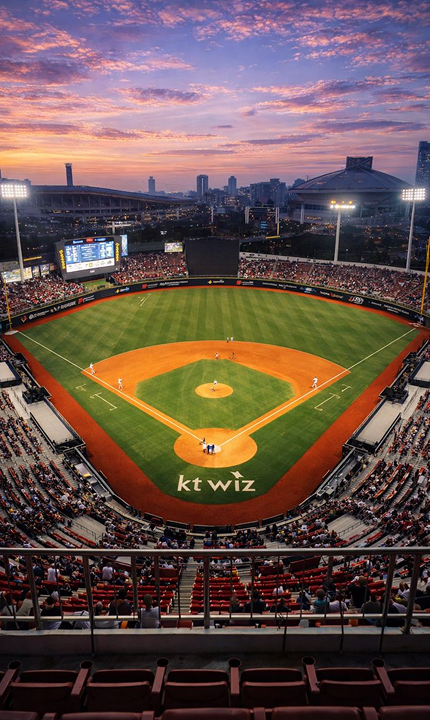
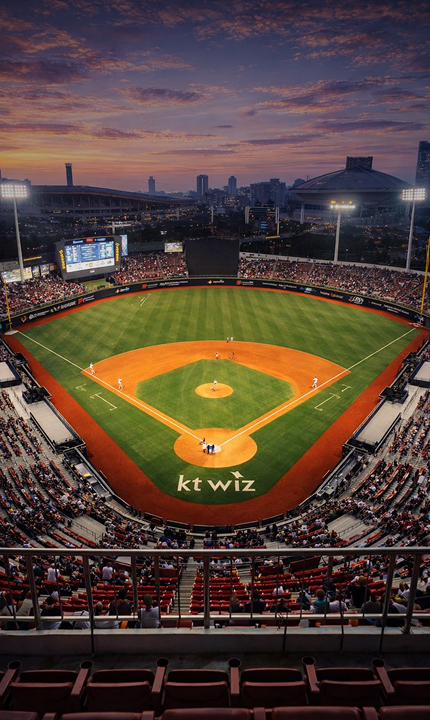
오픈그래프 이미지 수정 및 스타디움 이미지 수정

Changed region(s): [[0.0, 0.0, 1.0, 0.3056], [0.1512, 0.3056, 0.3023, 0.3667], [0.393, 0.3361, 0.4233, 0.3667]]

diff --git a/index.html b/index.html
@@ -11,7 +11,7 @@
   <meta property="og:type" content="website" />
   <meta property="og:title" content="Dugout THE 10TH PLAYER" />
   <meta property="og:description" content="10번째 선수들을 위한 공간 KBO 팬덤 커뮤니티 앱" />
-  <meta property="og:image" content="https://dugout-ruby.vercel.app/img/dugout-opengraph.svg" />
+  <meta property="og:image" content="https://dugout-ruby.vercel.app/img/dugout-opengraph.jpg" />
   <meta property="og:url" content="https://dugout-ruby.vercel.app" />
   <meta property="og:site_name" content="Dugout" />
 
@@ -19,7 +19,7 @@
   <meta name="twitter:card" content="summary_large_image" />
   <meta name="twitter:title" content="Dugout THE 10TH PLAYER" />
   <meta name="twitter:description" content="10번째 선수들을 위한 공간" />
-  <meta name="twitter:image" content="https://dugout-ruby.vercel.app/img/dugout-opengraph.svg" />
+  <meta name="twitter:image" content="https://dugout-ruby.vercel.app/img/dugout-opengraph.jpg" />
   <link rel="stylesheet" href="https://cdn.jsdelivr.net/gh/orioncactus/pretendard/dist/web/static/pretendard.css" />
   <link href="https://fonts.googleapis.com/css2?family=Angkor&display=swap" rel="stylesheet" />
 
